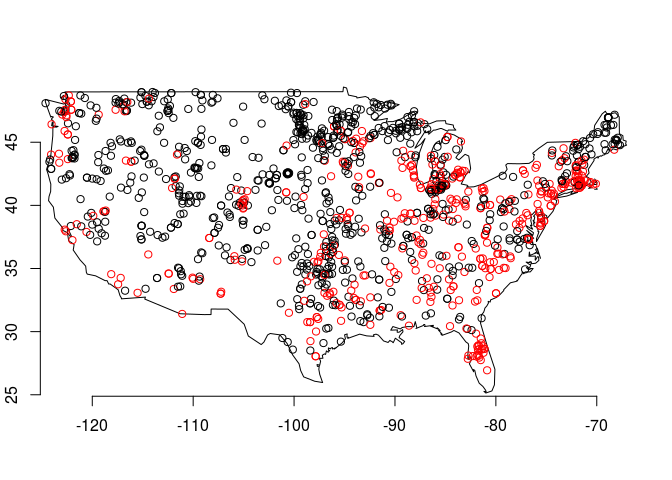
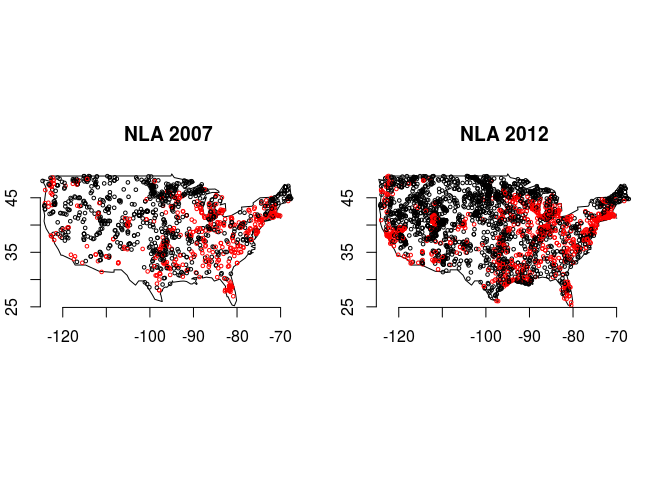
add NLA 2012, closes #1

diff --git a/README.md b/README.md
@@ -5,7 +5,7 @@ nlaR
 
 [![Project Status: WIP - Initial development is in progress, but there has not yet been a stable, usable release suitable for the public.](http://www.repostatus.org/badges/latest/wip.svg)](http://www.repostatus.org/#wip)
 
-The goal of nlaR is to provide an R interface to the National Lakes Assessment data. At this point it only serves the 2007 data.
+The goal of nlaR is to provide an R interface to the National Lakes Assessment data. At this point it serves either the 2007 or 2012 data (see examples below).
 
 Installation
 ------------
@@ -30,21 +30,21 @@ Retrieve data from EPA Website
 Data is stored in the location returned by `rappdirs::user_data_dir()`
 
 ``` r
-nla_get()
+nla_get(2012)
 ```
 
 Compile to `rds` object
 -----------------------
 
 ``` r
-nla_compile()
+nla_compile(2012)
 ```
 
 Load data from local machine
 ----------------------------
 
 ``` r
-dt <- nla_load()
+dt <- nla_load(2012)
 ```
 
 View NLA tables
@@ -52,59 +52,45 @@ View NLA tables
 
 ``` r
 names(dt)
-#>  [1] "Basin_Landuse_Metrics"                           
-#>  [2] "Buffer_Landuse_Metrics"                          
-#>  [3] "Chemical_ConditionEstimates"                     
-#>  [4] "MeanDO_ConditionEstimate"                        
-#>  [5] "MeanDO_Data"                                     
-#>  [6] "PHab_CondtionEstimates"                          
-#>  [7] "PHab"                                            
-#>  [8] "PHab_Metrics"                                    
-#>  [9] "PHab_Metrics"                                    
-#> [10] "Phytoplankton_DiatomCount"                       
-#> [11] "Phytoplankton_SampleInfo"                        
-#> [12] "Phytoplankton_SoftAlgaeCount"                    
-#> [13] "Plankton_OEModel_AnalysisData"                   
-#> [14] "Plankton_OEModel_ConditionEstimates"             
-#> [15] "Plankton_OEModel_ValidSitesUsed"                 
-#> [16] "Profile"                                         
-#> [17] "Recreational_ConditionEstimates"                 
-#> [18] "SampledLakeInformation"                          
-#> [19] "Secchi"                                          
-#> [20] "SedimentDiatoms_Count_Bottom"                    
-#> [21] "SedimentDiatoms_Count_Top"                       
-#> [22] "SedimentDiatoms_IBI_ConditionEstimate"           
-#> [23] "SedimentDiatoms_Index_Data"                      
-#> [24] "SedimentDiatoms_InferenceModel"                  
-#> [25] "SedimentDiatoms_InferenceModel_ConditionEstimate"
-#> [26] "SedimentDiatoms_SampleInformation"               
-#> [27] "SedimentDiatoms_Top&Bottom_InferenceModel_Data"  
-#> [28] "Trophic_ConditionEstimate"                       
-#> [29] "VisualAssessment"                                
-#> [30] "WaterQuality"                                    
-#> [31] "Zooplankton_Count"                               
-#> [32] "Zooplankton_SampleInformation"
-head(dt$MeanDO_Data)
-#>         SITE_ID VISIT_NO   DO2_2M
-#> 1 NLA06608-0001        1 8.233333
-#> 2 NLA06608-0002        1       NA
-#> 3 NLA06608-0002        2       NA
-#> 4 NLA06608-0003        1 8.100000
-#> 5 NLA06608-0003        2 9.000000
-#> 6 NLA06608-0004        1 6.666667
+#>  [1] "algaltoxins"    "atrazine"       "bentcond"       "bentmet"       
+#>  [5] "benttaxa_wide"  "chla_wide"      "phytocnt"       "phytotaxa_wide"
+#>  [9] "secchi"         "topsedhg"       "waterchem_wide" "wide_benthic"  
+#> [13] "wide_phab"      "wide_phabmet"   "wide_profile"   "wide_siteinfo" 
+#> [17] "zoopcond"       "zoopmets"       "zooptaxa_wide"
+head(dt$phytocnt)
+#>   PUBLICATION_DATE  UID SAMPLE_TYPE TAXA_ID        PARAMETER   RESULT
+#> 1        2/12/2014 6160        PHYL    4075        BIOVOLUME 219.9113
+#> 2        2/12/2014 6160        PHYL    4075          DENSITY       25
+#> 3        2/12/2014 6160        PHYL    4075   INITIAL_VOLUME     1080
+#> 4        2/12/2014 6160        PHYL    4095 SUBSAMPLE_VOLUME      200
+#> 5        2/12/2014 6160        PHYL    4095   VOLUME_COUNTED       10
+#> 6        2/12/2014 6160        PHYL    4095       TOTAL_AREA 283.5287
 ```
 
-Map NLA lakes
--------------
+Compare 2007 and 2012 NLA lakes
+-------------------------------
 
 ``` r
 library(sp)
 library(maps)
 
+par(mfrow = c(1, 2))
+
+dt <- nla_load(2007)
 sp::coordinates(dt$SampledLakeInformation) <- ~ LON_DD + LAT_DD
 map("usa")
+title("NLA 2007")
 points(dt$SampledLakeInformation,
-       col = factor(dt$SampledLakeInformation$URBAN))
+       col = factor(dt$SampledLakeInformation$URBAN), cex = 0.5)
+axis(1); axis(2)
+
+
+dt <- nla_load(2012)
+sp::coordinates(dt$wide_siteinfo) <- ~ LON_DD83 + LAT_DD83
+map("usa")
+title("NLA 2012")
+points(dt$wide_siteinfo,
+       col = factor(dt$wide_siteinfo$URBAN), cex = 0.5)
 axis(1); axis(2)
 ```
 
